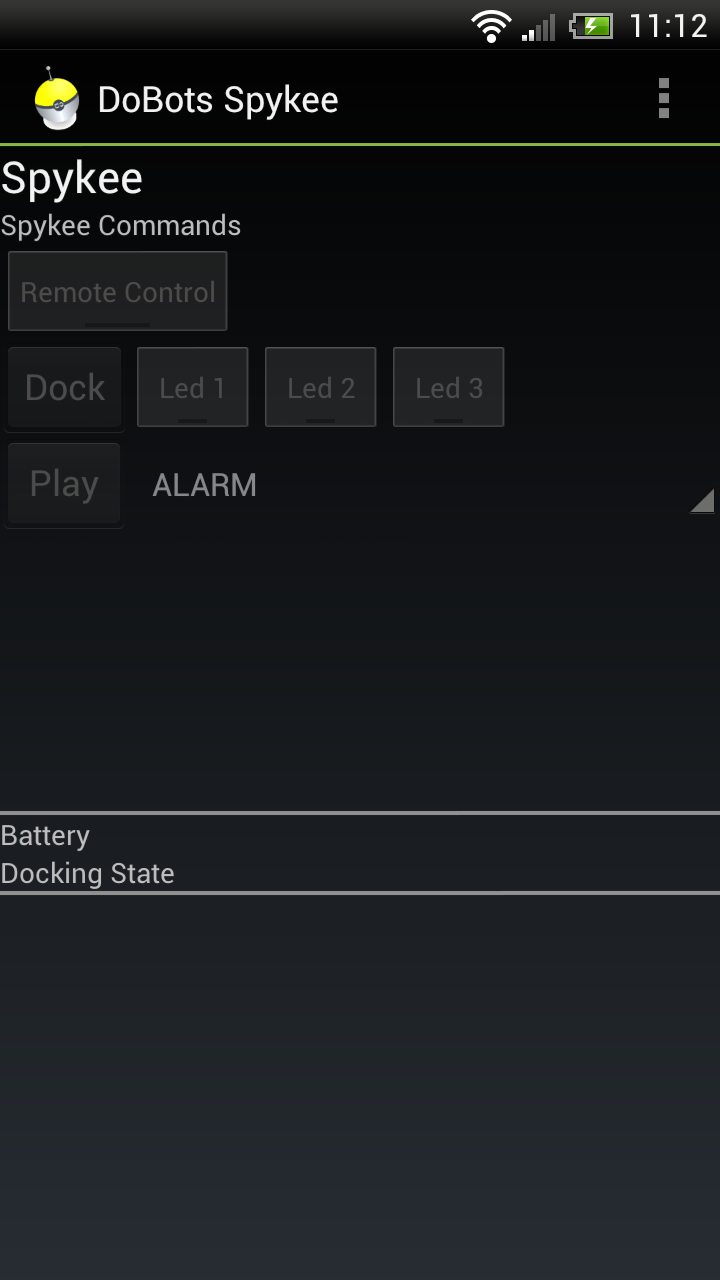
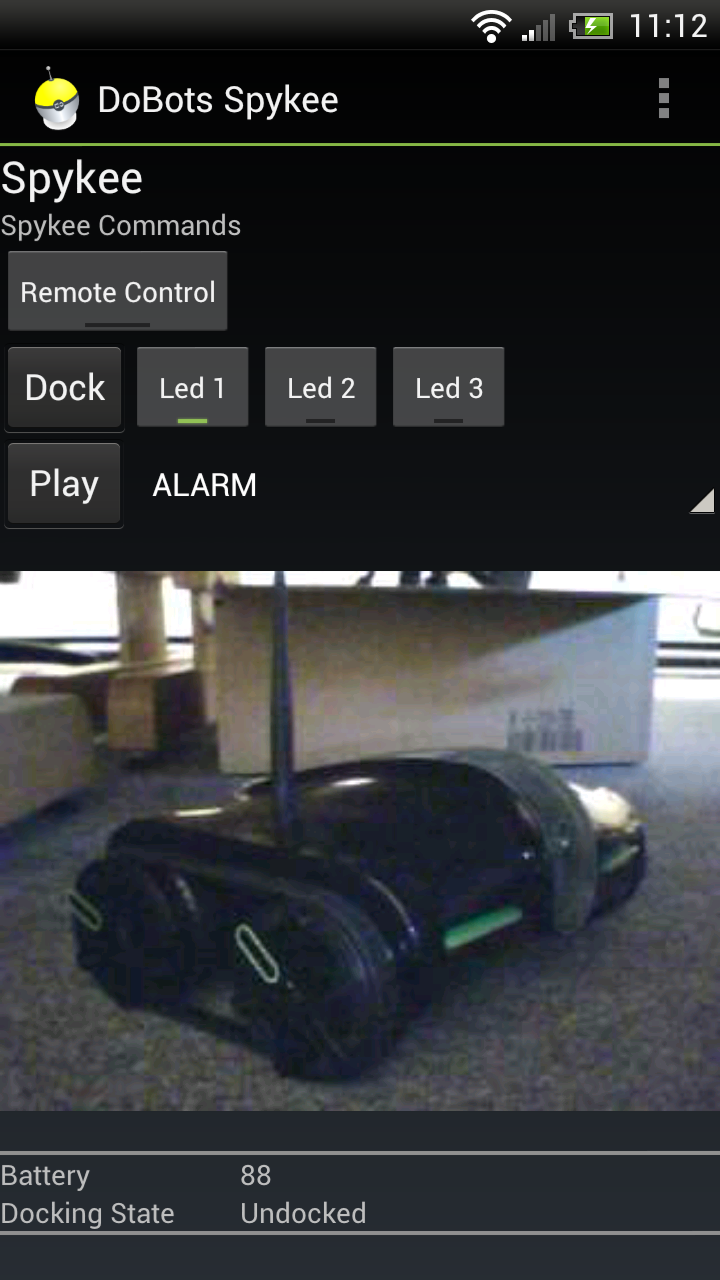
bug fix

diff --git a/SpykeeModule/src/org/dobots/spykee/SpykeeModule.java b/SpykeeModule/src/org/dobots/spykee/SpykeeModule.java
@@ -17,7 +17,7 @@ public class SpykeeModule extends SpykeeUI {
 		
 		ZmqHandler.initialize(this);
 		
-		m_eRobot = RobotType.RBT_ROVER2;
+		m_eRobot = RobotType.RBT_SPYKEE;
 		// we don't own the robot because it is a service and could have been started
 		// before displaying the UI
 		m_bOwnsRobot = false;
